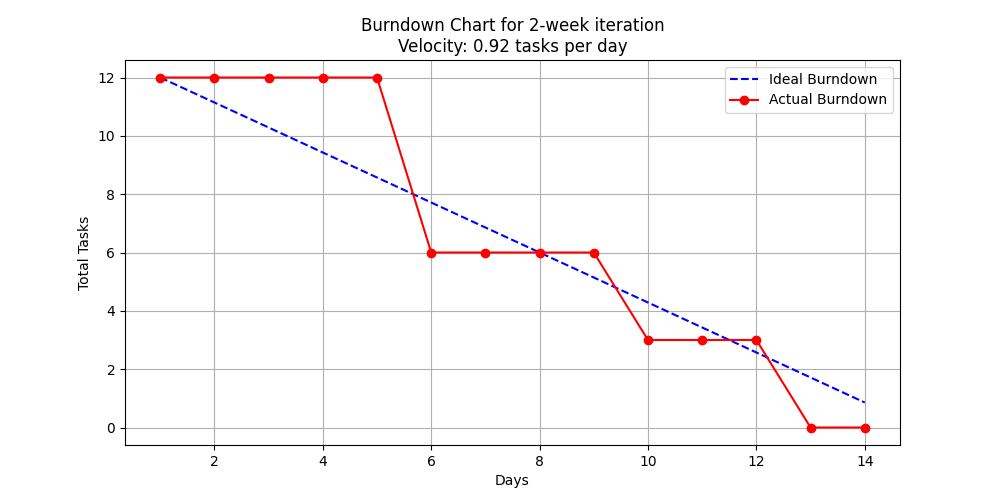
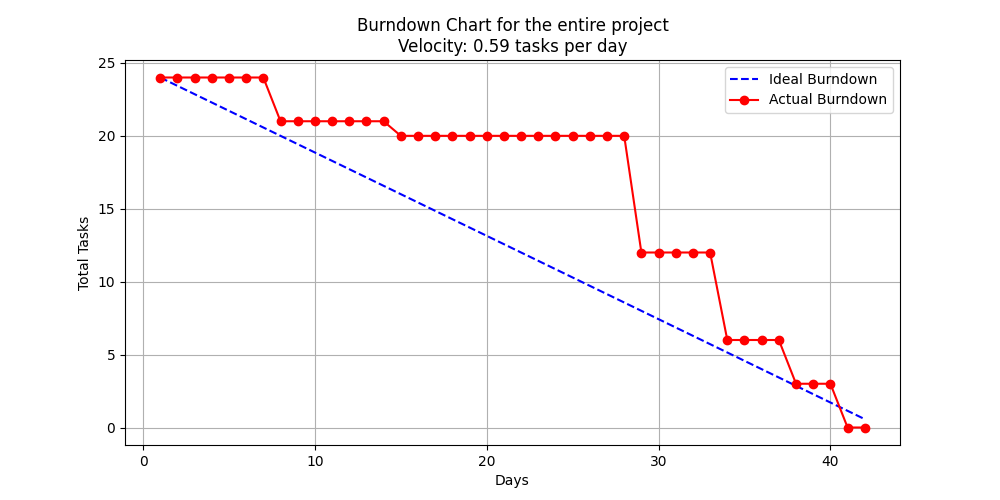
Corrected burndown

diff --git a/finalburndown.py b/finalburndown.py
@@ -1,17 +1,15 @@
 import matplotlib.pyplot as plt
 
-# Define time points (days) for a 2-week iteration (14 days)
-days = list(range(1, 15))  # 14-day iteration
+days = list(range(1, 43))
 
 # Ideal burndown line (evenly distributing 12 tasks over 14 days)
-ideal_tasks_remaining = [12 - (i * 12 / 14) for i in range(14)]
+ideal_tasks_remaining = [24 - (i * 24 / 42) for i in range(42)]
 
 # Actual burndown data based on the user's progress
-actual_tasks_remaining = [12] * 5 + [6] * 4 + [3] * 3 + [0] * 2
+actual_tasks_remaining = [24] * 7 + [21] * 7 + [20] + [20] * 13 + [12] * 5 + [6] * 4 + [3] * 3 + [0] * 2
 
 # Calculate velocity
-# Velocity is how many tasks are completed per day
-tasks_completed_per_day = [actual_tasks_remaining[i] - actual_tasks_remaining[i+1] for i in range(13)]  # Compare consecutive days
+tasks_completed_per_day = [actual_tasks_remaining[i] - actual_tasks_remaining[i+1] for i in range(41)]  # Compare consecutive days
 total_tasks_completed = sum(tasks_completed_per_day)  # Sum all completed tasks
 velocity = total_tasks_completed / len(tasks_completed_per_day)  # Average velocity over the iteration
 
@@ -23,7 +21,7 @@ plt.plot(days, actual_tasks_remaining, label="Actual Burndown", marker="o", colo
 # Labels and title
 plt.xlabel("Days")
 plt.ylabel("Total Tasks")
-plt.title(f"Burndown Chart for 2-week iteration\nVelocity: {velocity:.2f} tasks per day")
+plt.title(f"Burndown Chart for the entire project\nVelocity: {velocity:.2f} tasks per day")
 plt.legend()
 plt.grid(True)
 plt.show()

diff --git a/burndown.py b/burndown.py
@@ -1,10 +1,10 @@
 import matplotlib.pyplot as plt
 
 # Define time points (days) for iterations
-days = list(range(1, 15))  # 28-day iteration
+days = list(range(1, 29))  # 28-day iteration
 
 # Ideal burndown line (evenly distributing 12 tasks over 28 days)
-ideal_tasks_remaining = [12 - (i * 12 / 14) for i in range(14)]
+ideal_tasks_remaining = [12 - (i * 12 / 28) for i in range(28)]
 
 # Actual burndown data based on the user's progress
 actual_tasks_remaining = [12] * 7 + [9] * 7 + [8] + [8] * 13  # Updated with given progress
@@ -17,7 +17,7 @@ plt.plot(days, actual_tasks_remaining, label="Actual Burndown", marker="o", colo
 # Labels and title
 plt.xlabel("Days")
 plt.ylabel("Total Tasks")
-plt.title("Burndown Chart for 2 week iteration")
+plt.title("Burndown Chart for School Project")
 plt.legend()
 plt.grid(True)
 plt.show()
